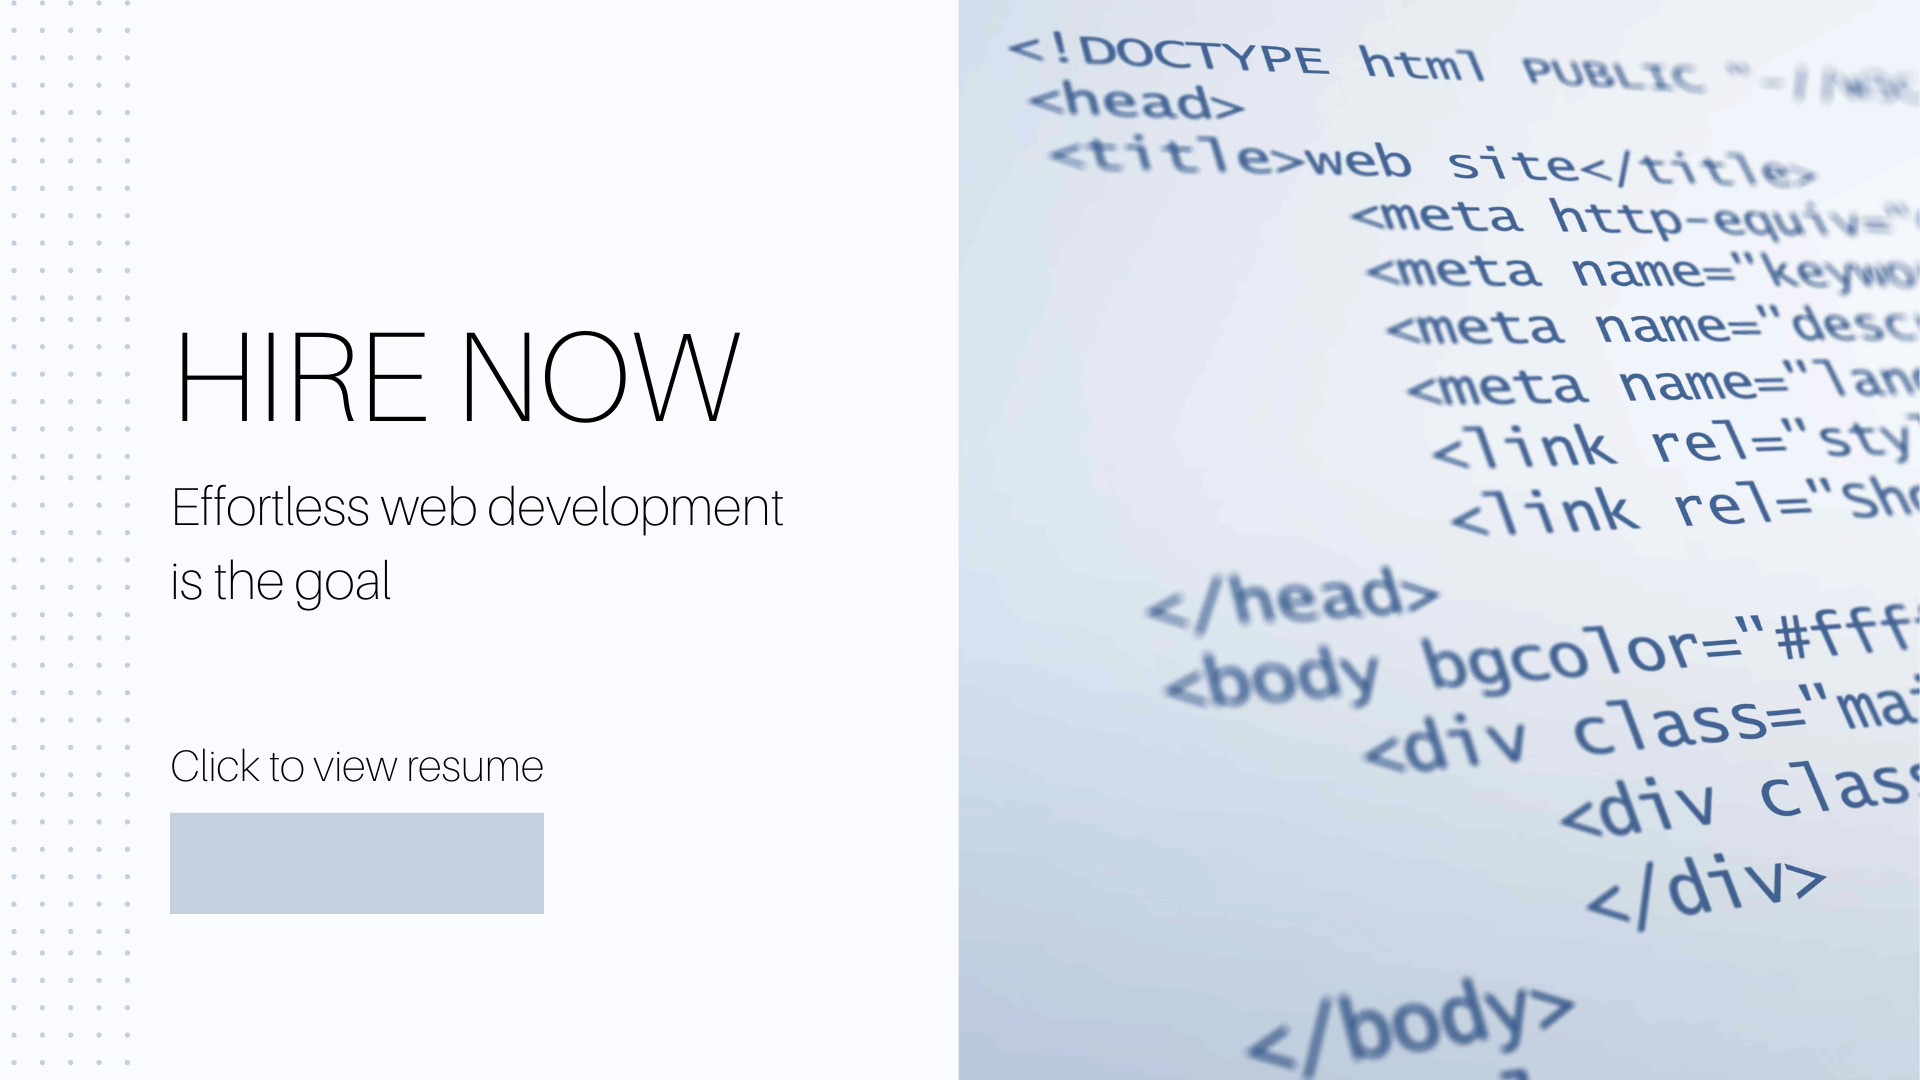
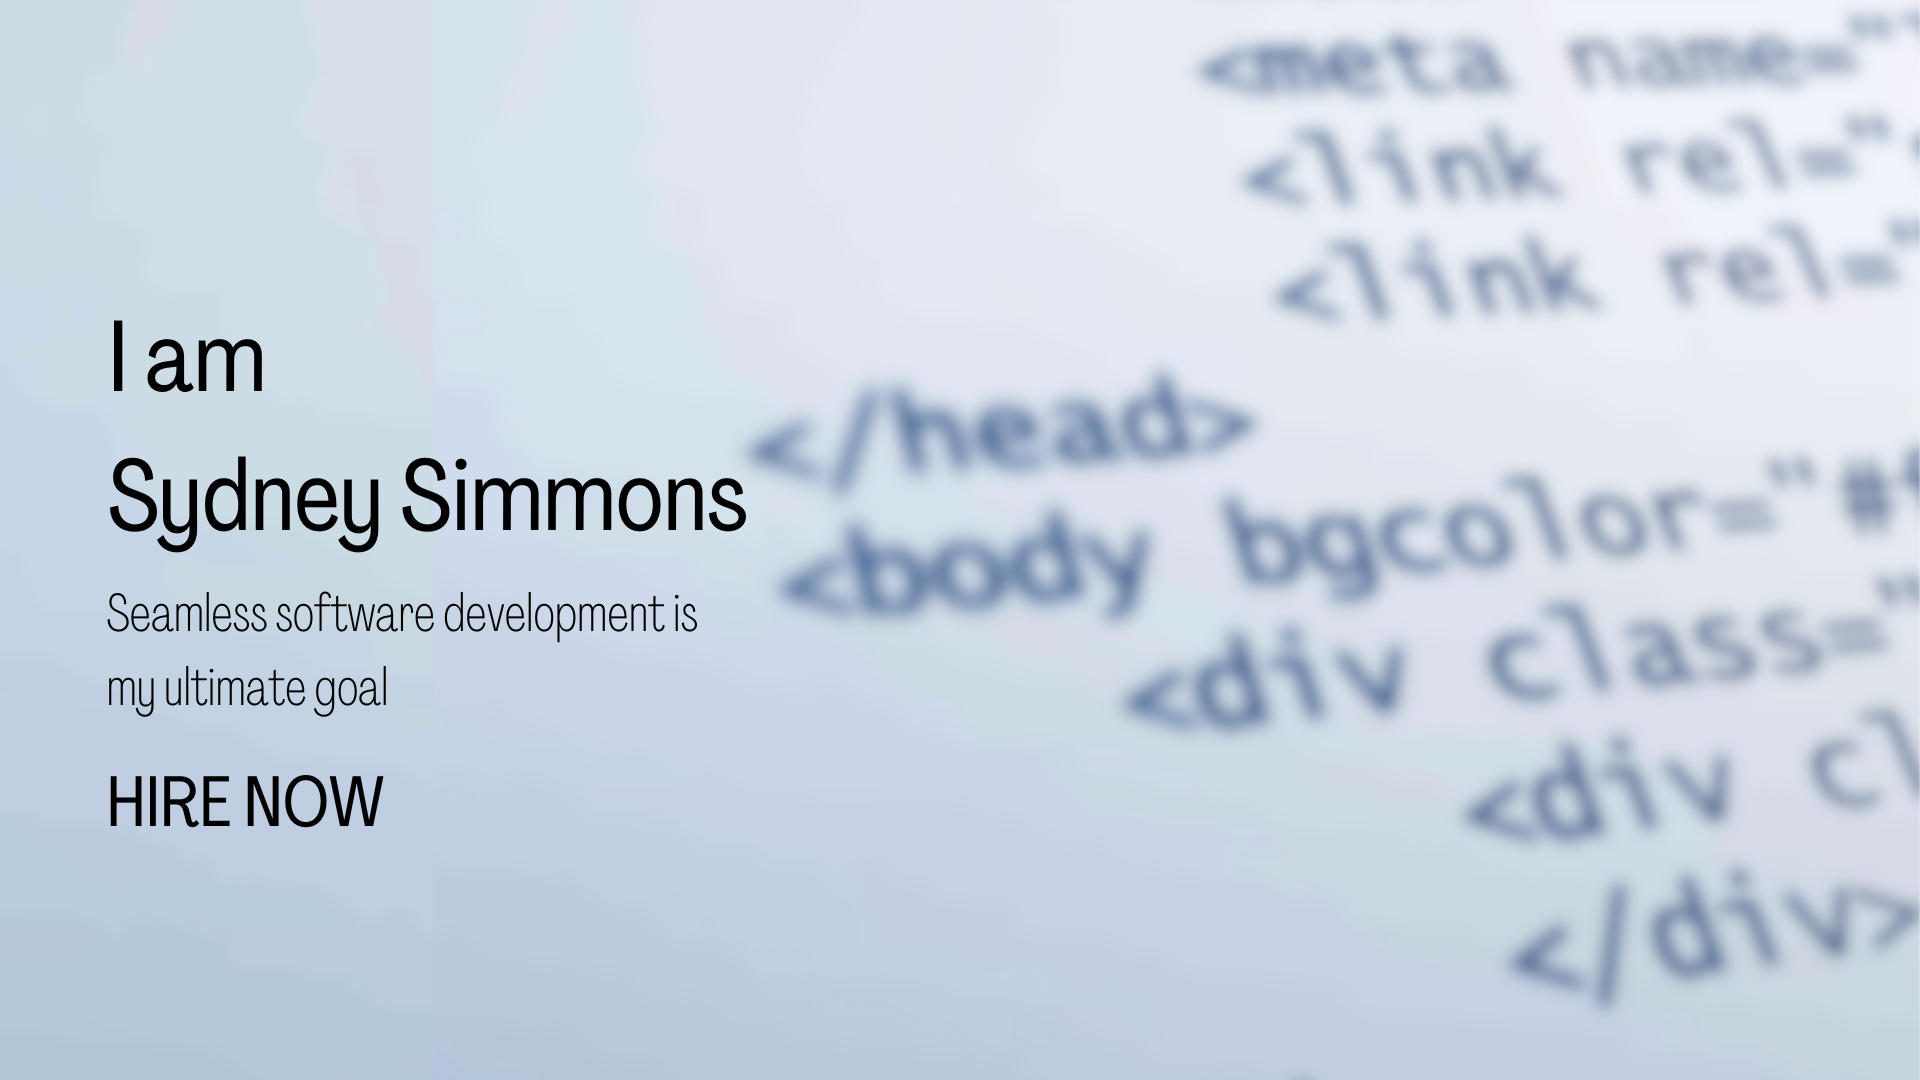
color scheme changed, components on landing page added

diff --git a/index.html b/index.html
@@ -10,46 +10,47 @@
 </head>
 
 <body>
-    <!-- header   -->
-    <div class="smol-centering">
-        <span>This Is Sydney Simmons</span>
-    </div>
-
-    <br>
 
     <table>
 
         <tr>
             <!-- image   -->
             <center>
-            <img src="images/landingPageImage.png" alt="This is an image of Sydney Simmons"
-                width="1350" height="500" border="1"/> 
+                <img src="images/landingPageImage.png" alt="This is an image of Sydney Simmons" width="1350"
+                    height="500" border="0" />
+
             </center>
         </tr>
 
-       
-        
         <tr>
             <!-- description/ selling proposition/ what I offer   -->
             <blockquote data-component class="smol-unbreakable-box">
                 <p>
-                    <font size="6"> These are larger words that will say </font>
+                    <font size="6"> Here's Why You Should Hire Me </font>
                 </p>
+
                 <p>
-                    <font size="6"> something cool</font>
+                    By hiring me as a software developer, you can expect a dedicated,
+                    skilled professional who is passionate about creating impactful
+                    software solutions. I bring technical expertise, problem-solving
+                    abilities, a strong work ethic, and a commitment to continuous
+                    improvement. Together, we can drive innovation,
+                    deliver dynamic software, and achieve <br> success in our projects.
                 </p>
-                <p>Topping candy canes ice cream gummi bears gingerbread marshmallow. Chocolate cake powder sugar
-                    plum topping. Cake marshmallow carrot cake. Pie liquorice liquorice sweet tootsie roll caramels
-                    donut dragée bear claw. Chocolate powder candy canes.</p> 
+
+                <a href="https://drive.google.com/file/d/1fXX5RWXq0MQdlaAbYvC7eVPQUyuXR_s2/view?usp=sharing">
+                    <button class="button">
+                        View Resume
+                    </button>
+                </a>
                 <br>
                 <p>Get Connected: </p>
                 <a href="https://www.linkedin.com/in/sydney-simmons-9503b025a/">
-                    <img src="images/linkedin_icon.png" alt="This is my Linkedin"
-                        width="70" height="20" border="0"/> 
+                    <img src="images/linkedin_icon.png" alt="This is my Linkedin" width="70" height="20" border="0" />
                 </a>
 
                 <br>
-                
+
             </blockquote>
         </tr>
 

diff --git a/css/main.css b/css/main.css
@@ -24,87 +24,17 @@ body {
     text-rendering: optimizeSpeed;
     line-height: 1.65;
     padding: 2rem;
-    background-color: #f6f9fd;
+    background-color: #ffffff;
     color: #29344B;
     font-family: -apple-system, BlinkMacSystemFont, avenir next, avenir, helvetica neue, helvetica, Ubuntu, roboto, noto, segoe ui, arial, sans-serif;
 }
-
-.smol-centering {
-    display: grid;
-    place-content: left;
-    /* was centered*/ 
-    
-}
-
-[class*="smol"]:not([data-component])>*:not([data-unstyled]) {
-    display: grid;
-    padding: 1rem;
-    background-color: #C3D0E0;
-    color: #4a6484;
-    font-size: clamp(1.5rem, 4vw, 2rem);
-    font-weight: bold;
-    text-align: center;
-    /* was center */
-    border-radius: 0em;
-    border: 0px solid; 
-    
-
-
-    &:not([data-text]) {
-        place-content: center;
-        /* was center */
-    }
-
-    &[data-text] {
-        font-size: 1.15rem;
-        text-align: left;
-    }
-}
-
-
-
-/* get connected*/ 
-.getConnected-centering {
-    display: grid;
-    place-content: center;
-    /* was centered*/ 
-    
-}
-
-[class*="getConnected"]:not([data-component])>*:not([data-unstyled]) {
-    display: grid;
-    padding: 1rem;
-    background-color: #675883;
-    color: #f9f7fd;
-    font-size: clamp(.8rem, .8vw, .8rem);
-    font-weight: normal; 
-    text-align: left;
-    /* was center */
-    border-radius: 0em;
-    border: 0px solid; 
-    width: 1300px;
-    height: 35px;
-
-
-    &:not([data-text]) {
-        place-content: left;
-        /* was center */
-    }
-
-    &[data-text] {
-        font-size: 1.15rem;
-        text-align: left;
-    }
-}
-
-
 
 
 /* description */
 
 .smol-unbreakable-box {
-    --color-light: #C3D0E0;
-    --color-dark: #4a6484;
+    --color-light: #ffffffb7;
+    --color-dark: #000000;
 
     margin: 2rem auto;
     color: var(--color-dark);
@@ -128,7 +58,7 @@ body {
 
 /* submit buttion resume */
 
-input[type=button],input[type=submit],input[type=reset] {
+.button {
     background-color: #4a6484;
     border: none;
     color: white;
@@ -139,8 +69,6 @@ input[type=button],input[type=submit],input[type=reset] {
     float: center;
 } 
 
-
-/*image */
 
 
 
